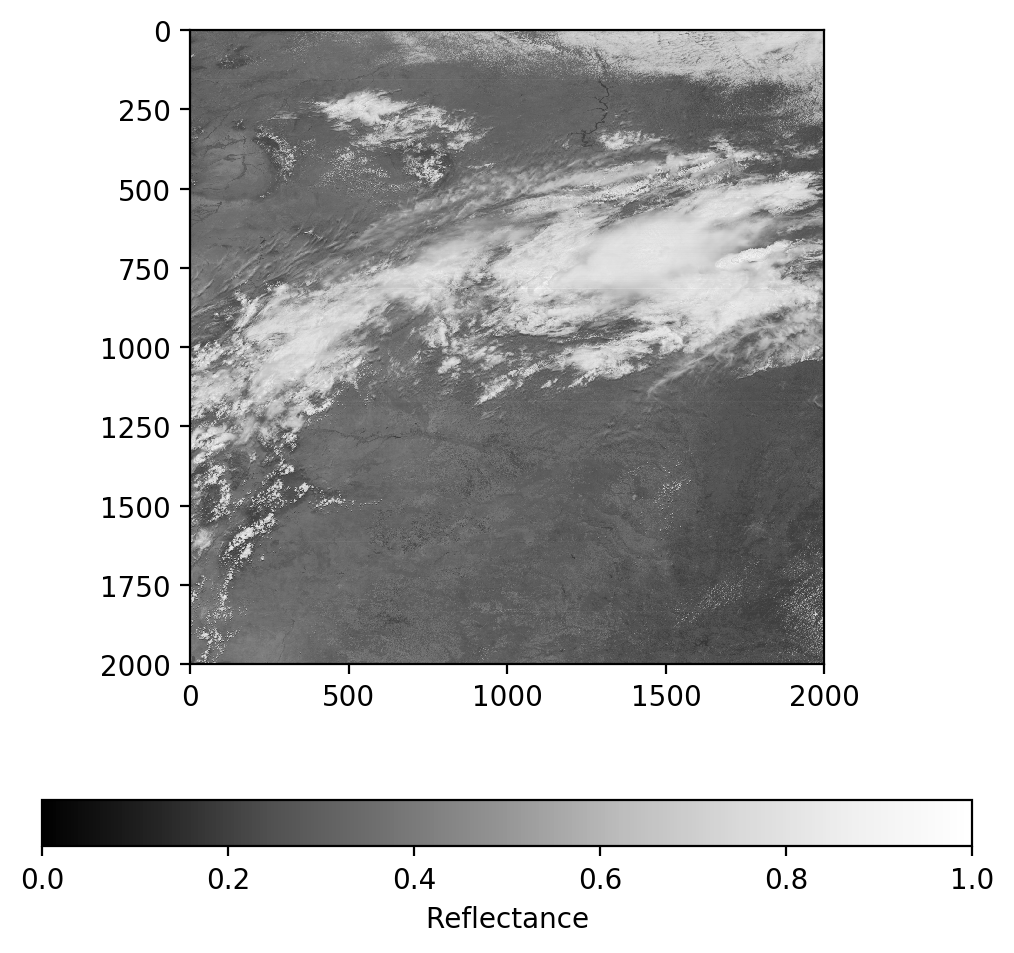
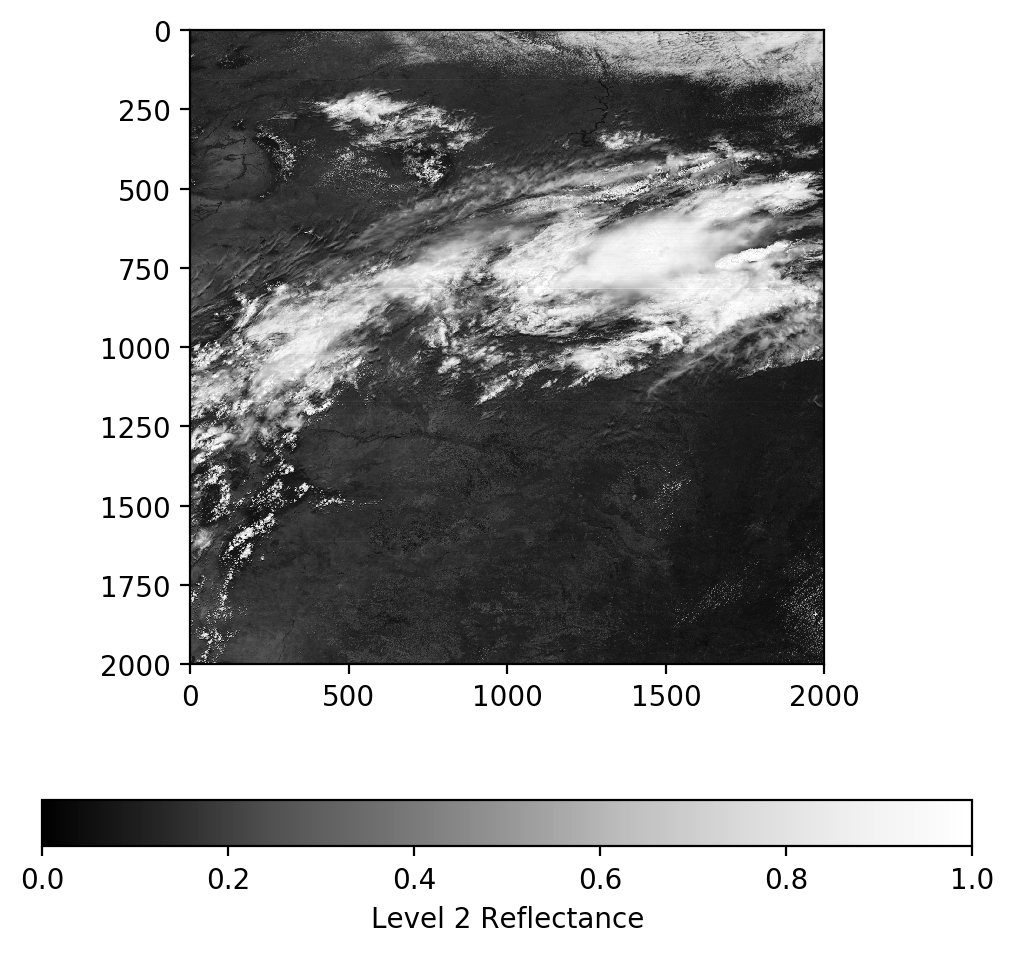
chore(python): Use level 2 data for jupyter chore(getdata): Update table to be more clear

diff --git a/content/goes16/getdata.md b/content/goes16/getdata.md
@@ -21,42 +21,44 @@ The data is being made available in a NetCDF file format. The data are reference
 
 There are several Level 1b (L1b) and Level 2 (L2) ABI products available over different regions with different scanning times. The table below summarizes the products, the refresh rate for the products and gives example paths of where to find the data.
 
+*When in doubt, start with the Level 2 products!*
+
 | Product Level | Product Name | Product Short Name | ABI Scene | Time Between Images | Example File Name |
 | ------------- | :----------: | :----------------: | :-------: | :-----: | :-------: |
 |   L1b | Radiances | RadM | Mesoscale | 30-60 seconds | ABI-L1b-RadM/2017/192/19/OR_ABI-L1b-RadM-M3C14_G16_s20171921952189_e20171921954562_c20171921955013.nc |
 |   L1b | Radiances | RadC | CONUS | 5 minutes | ABI-L1b-RadC/2017/192/19/OR_ABI-L1b-RadC-M3C14_G16_s20171921952189_e20171921954562_c20171921955013.nc |
 |   L1b | Radiances | RadF | Full Disk | 15 minutes | ABI-L1b-RadF/2017/192/19/OR_ABI-L1b-RadF-M3C14_G16_s20171921952189_e20171921954562_c20171921955013.nc |
-|   L2 | Cloud & Moisture Imagery | CMIPM | Mesoscale | 30-60 seconds | ABI-L2-CMIPM/2017/191/21/OR_ABI-L2-CMIPM1-M3C02_G16_s20171912128268_e20171912128326_c20171912128391.nc |
-|   L2 | Cloud & Moisture Imagery | CMIPC | CONUS | 5 Minutes | ABI-L2-CMIPC/2017/191/21/OR_ABI-L2-CMIPC-M3C02_G16_s20171912122189_e20171912124562_c20171912125065.nc |
-|   L2 | Cloud & Moisture Imagery | CMIPF | Full Disk | 15 Minutes | ABI-L2-CMIPF/2017/192/15/OR_ABI-L2-CMIPF-M3C02_G16_s20171921515382_e20171921526149_c20171921526214.nc |
-|   L2 | Multi-Band Cloud & Moisture Imagery | MCMIPM | Mesoscale | 30-60 seconds | ABI-L2-MCMIPM/2017/191/21/OR_ABI-L2-MCMIPM2-M3_G16_s20171912130568_e20171912131031_c20171912131105.nc |
-|   L2 | Multi-Band Cloud & Moisture Imagery | MCMIPC | CONUS | 5 Minutes | ABI-L2-MCMIPC/2017/191/21/OR_ABI-L2-MCMIPC-M3_G16_s20171912122189_e20171912124562_c20171912125065.nc |
-|   L2 | Multi-Band Cloud & Moisture Imagery | MCMIPF | Full Disk | 15 Minutes | ABI-L2-MCMIPF/2017/191/21/OR_ABI-L2-MCMIPF-M3_G16_s20171912115380_e20171912126152_c20171912126330.nc  |
+|   L2 | Reflectance or Brightness Temperature | CMIPM | Mesoscale | 30-60 seconds | ABI-L2-CMIPM/2017/191/21/OR_ABI-L2-CMIPM1-M3C02_G16_s20171912128268_e20171912128326_c20171912128391.nc |
+|   L2 | Reflectance or Brightness Temperature | CMIPC | CONUS | 5 Minutes | ABI-L2-CMIPC/2017/191/21/OR_ABI-L2-CMIPC-M3C02_G16_s20171912122189_e20171912124562_c20171912125065.nc |
+|   L2 | Reflectance or Brightness Temperature | CMIPF | Full Disk | 15 Minutes | ABI-L2-CMIPF/2017/192/15/OR_ABI-L2-CMIPF-M3C02_G16_s20171921515382_e20171921526149_c20171921526214.nc |
+|   L2 | All Bands at 2km, Reflectance or Brightness Temperature | MCMIPM | Mesoscale | 30-60 seconds | ABI-L2-MCMIPM/2017/191/21/OR_ABI-L2-MCMIPM2-M3_G16_s20171912130568_e20171912131031_c20171912131105.nc |
+|   L2 | All Bands at 2km, Reflectance or Brightness Temperature | MCMIPC | CONUS | 5 Minutes | ABI-L2-MCMIPC/2017/191/21/OR_ABI-L2-MCMIPC-M3_G16_s20171912122189_e20171912124562_c20171912125065.nc |
+|   L2 | All Bands at 2km, Reflectance or Brightness Temperature | MCMIPF | Full Disk | 15 Minutes | ABI-L2-MCMIPF/2017/191/21/OR_ABI-L2-MCMIPF-M3_G16_s20171912115380_e20171912126152_c20171912126330.nc  |
 
 The ABI sensor images over 16 different channels (wavelengths) as described in the table below
 
-| Channel | Central Wave Length (µm) | Sprectrum Name |
-| :----:  | :---------: | :------------: |
-| 1       |  0.47  |   Visible - Blue |
-| 2       |  0.64  | Visible - Red |
-| 3       |  0.86  | Near IR - Vegetation |
-| 4       |  1.37  | Near IR - Cirrus |
-| 5       |  1.6  | Near IR - Snow/Ice |
-| 6       |  2.2  | Near IR - Cloud Ice |
-| 7       |  3.9  | IR - Shortwave |
-| 8       |  6.2  | IR - Upper-Level Water Vapor |
-| 9       |  6.9  | IR - Mid-Level Water Vapor |
-| 10       |  7.3  | IR - Lower-Level Water Vapor |
-| 11       |  8.4 | IR - Cloud Top Phase |
-| 12       |  9.6  | IR - Ozone |
-| 13       |  10.3  | IR - Clean |
-| 14       |  11.2 | IR - Standard |
-| 15       |  12.3  | IR - Dirty |
-| 16       | 13.3  | IR - CO2 |
+| Channel | Resolution (km) | Central Wave Length (µm) | Sprectrum Name |
+| :----:  | :--------- | :--------- | :------------ |
+| 1       |  1 | 0.47  |   Visible - Blue |
+| 2       |  0.5 | 0.64  | Visible - Red |
+| 3       |  1 | 0.86  | Near IR - Vegetation |
+| 4       |  2 | 1.37  | Near IR - Cirrus |
+| 5       |  1 | 1.6  | Near IR - Snow/Ice |
+| 6       |  2 | 2.2  | Near IR - Cloud Ice |
+| 7       |  2 | 3.9  | IR - Shortwave |
+| 8       |  2 | 6.2  | IR - Upper-Level Water Vapor |
+| 9       |  2 | 6.9  | IR - Mid-Level Water Vapor |
+| 10       |  2 | 7.3  | IR - Lower-Level Water Vapor |
+| 11       |  2 | 8.4 | IR - Cloud Top Phase |
+| 12       |  2 | 9.6  | IR - Ozone |
+| 13       |  2 | 10.3  | IR - Clean |
+| 14       |  2 | 11.2 | IR - Standard |
+| 15       |  2 | 12.3  | IR - Dirty |
+| 16       | 2 | 13.3  | IR - CO2 |
 
-The filenames are
+The filenames are as follows for L1b products:
 
-    <sensor>-<level>-<product short name>/<year>/<julian day>/<hour>/OR_<sensor>-<level>-<product short name>-M<scanning mode>-C<channel>-G<GOES Satellite>-s<start time>_e<end time>_c<central time>.nc
+    <sensor>-<level>-<product short name>/<year>/<julian day>/<hour>/OR_<sensor>-<level>-<product short name>-M<scanning mode>-C<channel>-G<GOES Satellite>-s<start time>_e<end time>_c<creation time>.nc
 
 ### Data Access
 

diff --git a/content/goes16/python.md b/content/goes16/python.md
@@ -22,7 +22,7 @@ import matplotlib.pyplot as plt
 import numpy as np
 ```
 
-### Reading in GOES-16 NetCDF
+### Reading in Level 1b GOES-16 NetCDF
 Here we will open the dataset and read in the radiance variable, called 'Rad' in the file.
 
 
@@ -49,15 +49,14 @@ plt.show()
 
 ![png](output_5_0.png)
 
+
 ### Radiance to Reflectance
 It is useful to convert the radiance values from an absolute scale into a relative scale to make them easier to deal with in the following steps. We will use the example formula published by NOAA at [http://www.goes-r.gov/products/ATBDs/baseline/Imagery_v2.0_no_color.pdf](http://www.goes-r.gov/products/ATBDs/baseline/Imagery_v2.0_no_color.pdf) on page 21.
 
 
 ```python
 # Define some constants needed for the conversion. From the pdf linked above
-Esun_Ch_01 = 726.721072
 Esun_Ch_02 = 663.274497
-Esun_Ch_03 = 441.868715
 d2 = 0.3
 ```
 
@@ -85,13 +84,43 @@ plt.show()
 
 ![png](output_9_0.png)
 
+
+### Reading in Level 2 GOES NetCDF Data
+So the Level 1b data contains radiance values, and we just demonstrated the process to convert this data to reflectance. However, lets say you just want to get straight to the good stuff and not go through this process? Thankfully, NOAA provides the reflectance & brightness temperatures precomputed as the Level 2 product. We will work with those from here on out.
+
+
+```python
+# Read in Level 2 NetCDF
+g16nc = Dataset('OR_ABI-L2-CMIPM1-M3C02_G16_s20171931811268_e20171931811326_c20171931811393.nc', 'r')
+ref_ch2 = g16nc.variables['CMI'][:]
+g16nc.close()
+g16nc = None
+```
+
+
+```python
+# Plot reflectance
+fig = plt.figure(figsize=(6,6),dpi=200)
+im = plt.imshow(ref_ch2, vmin=0.0, vmax=1.0, cmap='Greys_r')
+cb = fig.colorbar(im, orientation='horizontal')
+cb.set_ticks([0, 0.2, 0.4, 0.6, 0.8, 1.0])
+cb.set_label('Level 2 Reflectance')
+plt.show()
+```
+
+
+![png](output_12_0.png)
+
+
+As you can see, this looks very similar to what we computed but without all the work!
+
 ### Gamma correction
-You'll notice the image above looks very dark, that is because the values are in linear units. We do a simple gamma correction to adjust this and brighten the image
+You'll notice the image above looks very dark, that is because the values are in linear units. We do a simple gamma correction to adjust this and brighten the image. This makes it easier to see features in the data.
 
 
 ```python
 # Apply the formula to adjust reflectance gamma
-ref_gamma = np.sqrt(ref)
+ref_gamma = np.sqrt(ref_ch2)
 ```
 
 
@@ -101,12 +130,12 @@ fig = plt.figure(figsize=(6,6),dpi=200)
 im = plt.imshow(ref_gamma, vmin=0.0, vmax=1.0, cmap='Greys_r')
 cb = fig.colorbar(im, orientation='horizontal')
 cb.set_ticks([0, 0.2, 0.4, 0.6, 0.8, 1.0])
-cb.set_label('Reflectance')
+cb.set_label('Reflectance Gamma Adjusted')
 plt.show()
 ```
 
 
-![png](output_12_0.png)
+![png](output_16_0.png)
 
 
 ### Psuedo-True Color Image
@@ -114,15 +143,11 @@ GOES-16 Contains a Blue band and a Red band but no Green band. Fortunately, we c
 
 
 ```python
-# Load Channel 1 - Blue Visible
-g16nc = Dataset('OR_ABI-L1b-RadM1-M3C01_G16_s20171931811268_e20171931811326_c20171931811369.nc', 'r')
-radiance_1 = g16nc.variables['Rad'][:]
+# Load Channel 1 - Blue Visible & do gamma adjustment
+g16nc = Dataset('OR_ABI-L2-CMIPM1-M3C01_G16_s20171931811268_e20171931811326_c20171931811382.nc', 'r')
+ref_1 = g16nc.variables['CMI'][:]
 g16nc.close()
 g16nc = None
-ref_1 = (radiance_1 * np.pi * d2) / Esun_Ch_01
-# Make sure all data is in the valid data range
-ref_1 = np.maximum(ref_1, 0.0)
-ref_1 = np.minimum(ref_1, 1.0)
 ref_gamma_1 = np.sqrt(ref_1)
 ```
 
@@ -137,20 +162,17 @@ cb.set_label('Ch01 - Reflectance')
 plt.show()
 ```
 
-![png](output_15_0.png)
+
+![png](output_19_0.png)
 
 
 
 ```python
-# Load Channel 3 - Veggie Near IR
-g16nc = Dataset('OR_ABI-L1b-RadM1-M3C03_G16_s20171931811268_e20171931811326_c20171931811371.nc', 'r')
-radiance_3 = g16nc.variables['Rad'][:]
+# Load Channel 3 - Veggie Near IR & do gamma adjustment
+g16nc = Dataset('OR_ABI-L2-CMIPM1-M3C03_G16_s20171931811268_e20171931811326_c20171931811389.nc', 'r')
+ref_3 = g16nc.variables['CMI'][:]
 g16nc.close()
 g16nc = None
-ref_3 = (radiance_3 * np.pi * d2) / Esun_Ch_03
-# Make sure all data is in the valid data range
-ref_3 = np.maximum(ref_3, 0.0)
-ref_3 = np.minimum(ref_3, 1.0)
 ref_gamma_3 = np.sqrt(ref_3)
 ```
 
@@ -166,7 +188,7 @@ plt.show()
 ```
 
 
-![png](output_17_0.png)
+![png](output_21_0.png)
 
 
 On GOES-16, Band 2 (Red Visible) is 500-meter resolution while Band 1 (Blue Visible) and Band 3 (Veggie IR) are 1,000-meter resolution. In order to combine the 3 bands into an RGB image we will first resample bands 2 to 1000-meter resolution.
@@ -186,6 +208,7 @@ ref_gamma_2 = rebin(ref_gamma, [1000, 1000])
 
 Lets make a geocolor image using the veggie near IR band directly in place of green and see how that looks.
 
+
 ```python
 geocolor = np.stack([ref_gamma_2, ref_gamma_3, ref_gamma_1], axis=2)
 fig = plt.figure(figsize=(6,6),dpi=200)
@@ -195,7 +218,7 @@ plt.show()
 ```
 
 
-![png](output_22_0.png)
+![png](output_26_0.png)
 
 
 As you can see, the green channel overpowers everything else. We will use a simple linear relationship to adjust the green values to create a psuedo-green channel and produce a better true color image.
@@ -216,7 +239,7 @@ plt.show()
 ```
 
 
-![png](output_25_0.png)
+![png](output_29_0.png)
 
 
 Much better!
